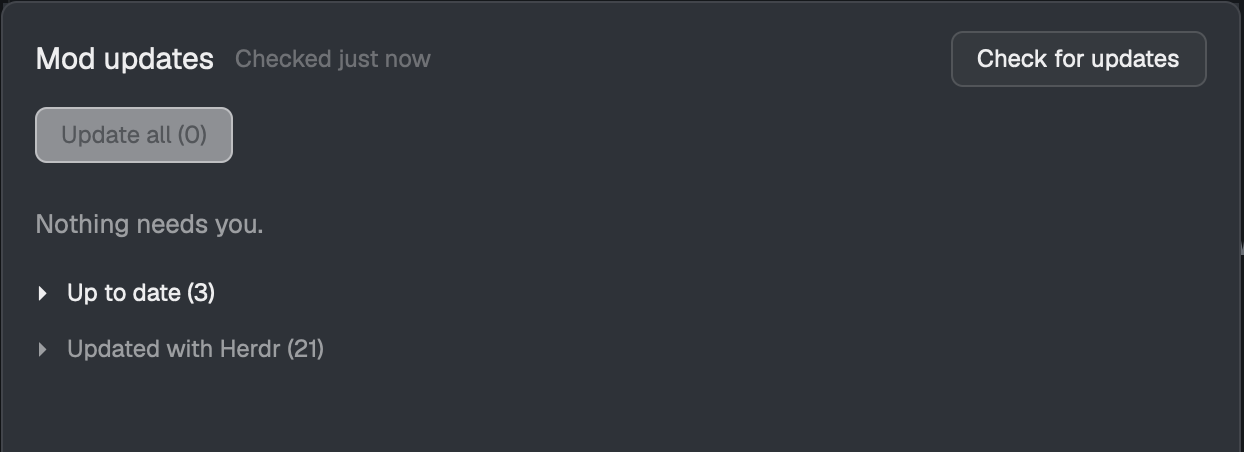
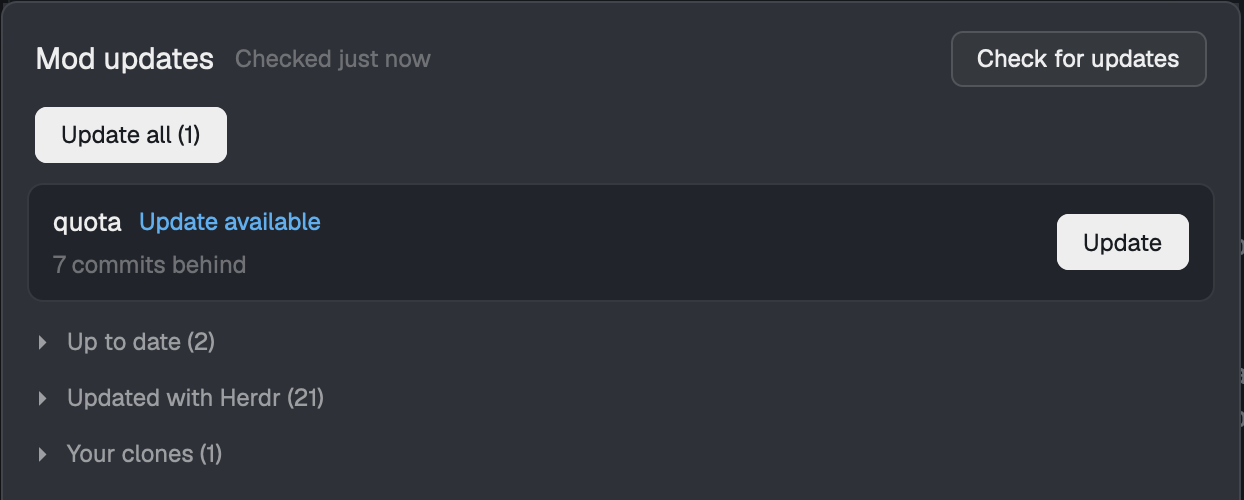
Show a waiting update in the screenshot

diff --git a/README.md b/README.md
@@ -34,7 +34,7 @@ Your mods folder                     hmod                             GitHub
 
 ## What it looks like in Herdr
 
-![Mod updates, with nothing waiting](preview.png)
+![Mod updates, with one update waiting](preview.png)
 
 With two mods waiting and three settled, the dialog reads:
 
